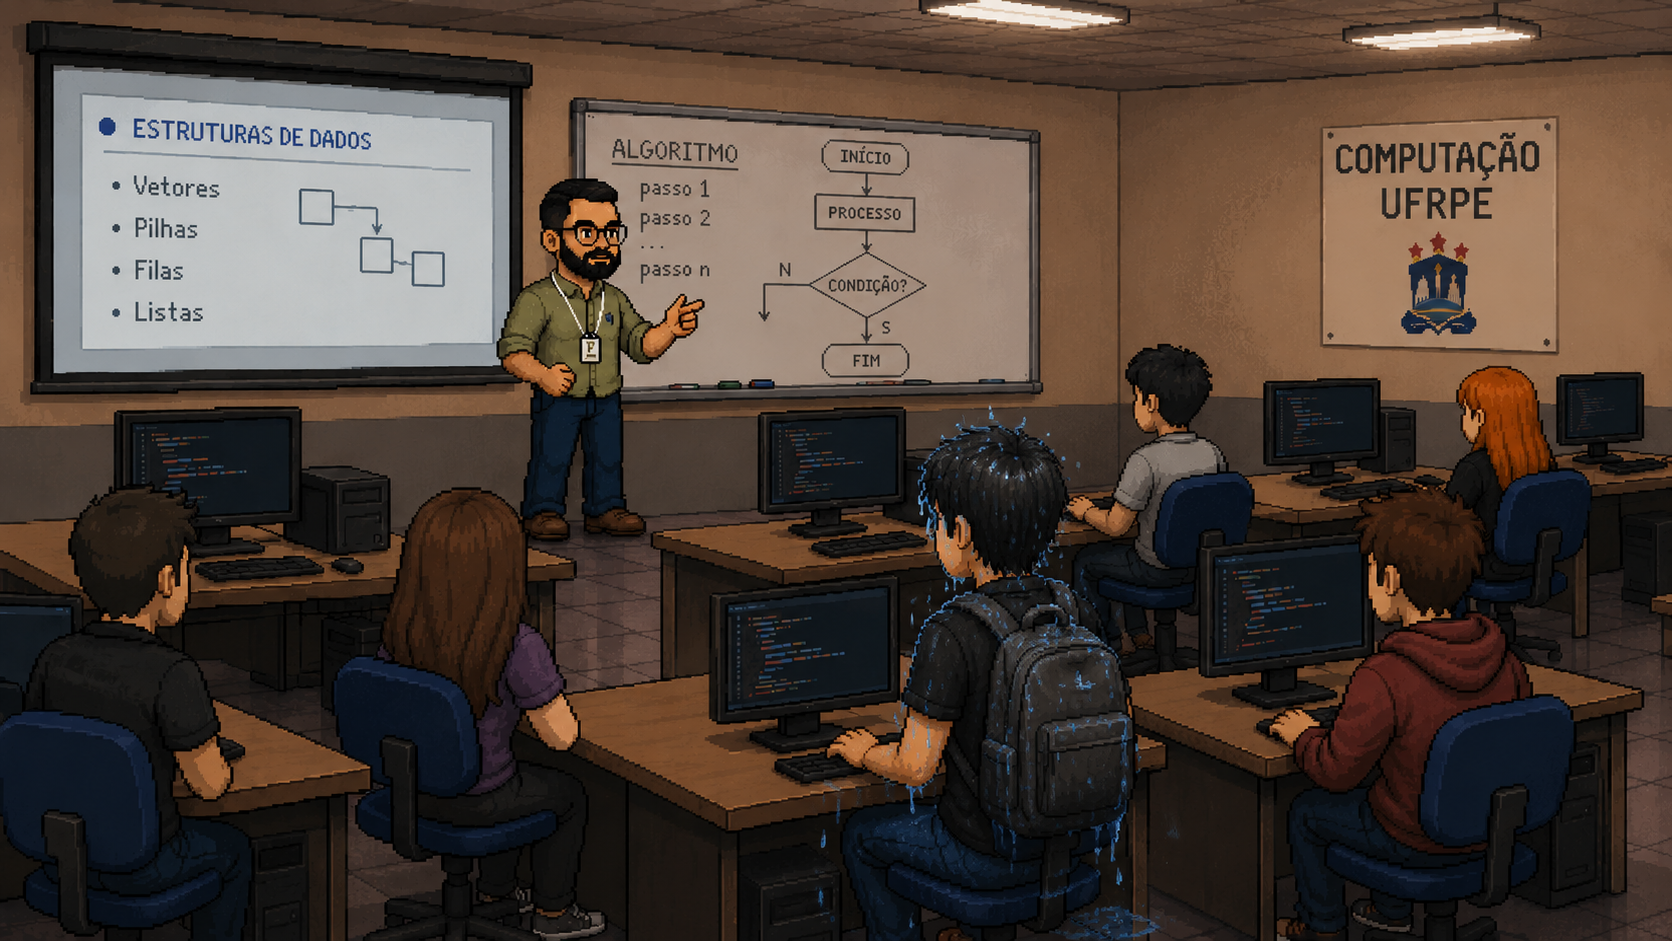
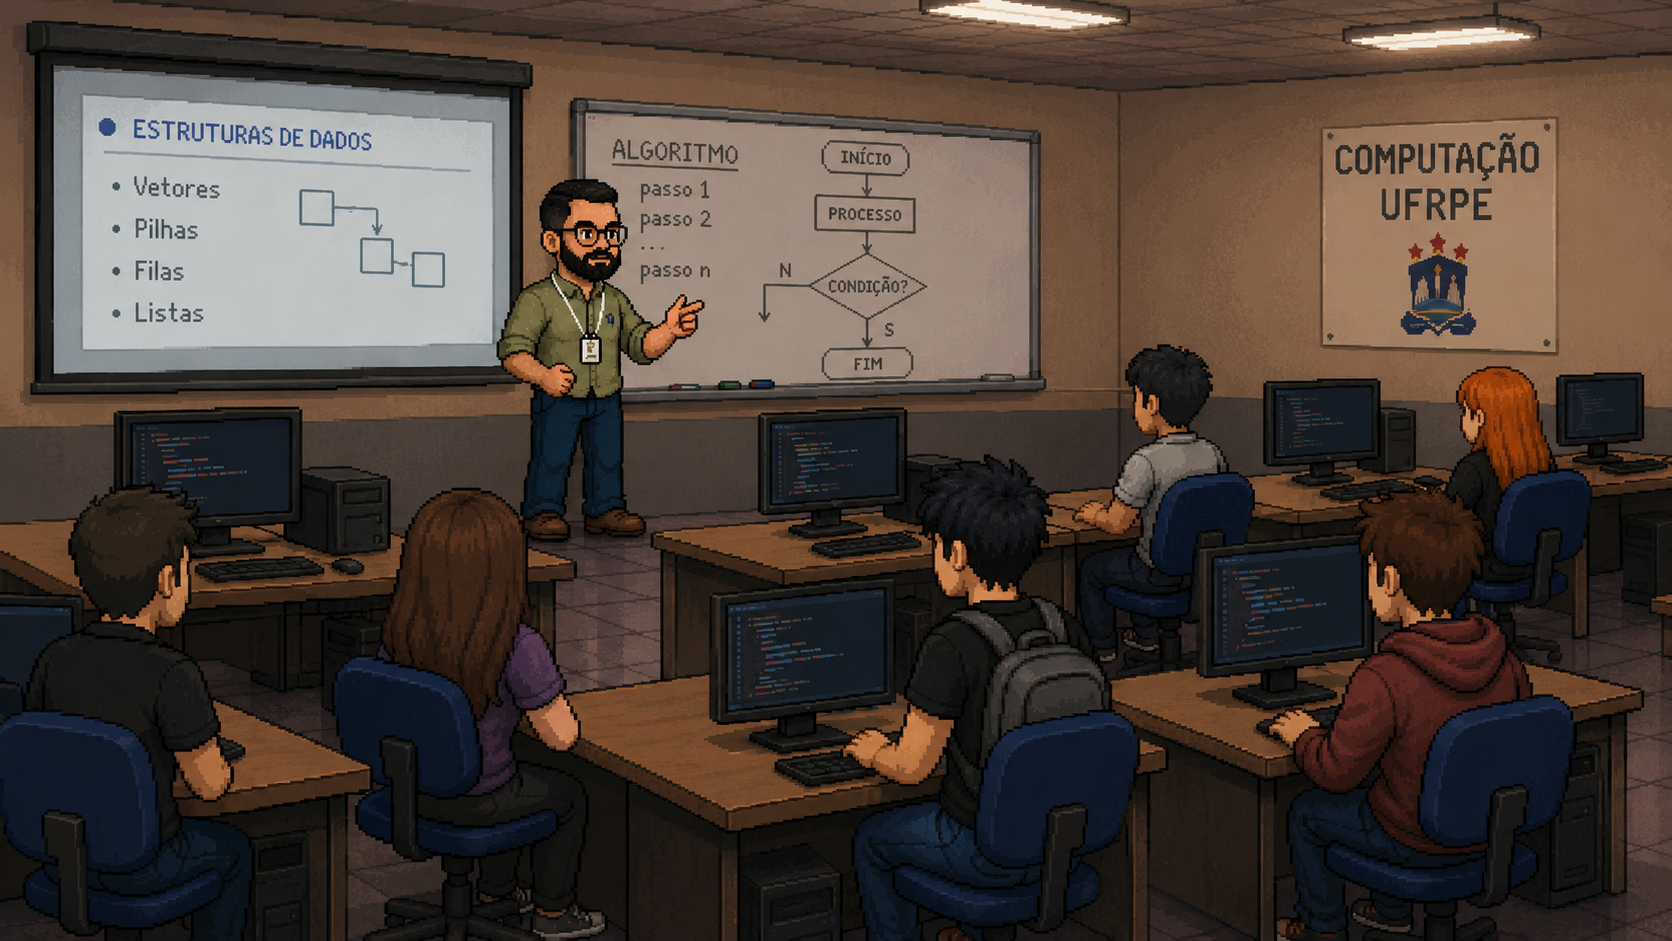
update

diff --git a/game/entities/towels_scene_manager.py b/game/entities/towels_scene_manager.py
@@ -1,0 +1,35 @@
+from game.entities.towels import Towels
+from game.core.config import TowelsConfig
+import arcade
+
+
+class TowelsSceneManager:
+    def __init__(self, window: arcade.Window) -> None:
+        self.towels: dict[str, Towels] = {}
+        self._spawned = False
+
+        for towels_name, config in TowelsConfig.TOWELS.items():
+            towels = Towels(
+                path=config["path"],
+                x=config["x"],
+                y=config["y"],
+                window=window
+            )
+            self.towels[towels_name] = towels
+
+    def __getattr__(self, name: str) -> Towels:
+        towels = self.__dict__.get("towels", {})
+        if name in towels:
+            return towels[name]
+        raise AttributeError(f"Toalha '{name}' não encontrada.")
+
+    def on_spawn(self, sprite_list: arcade.SpriteList, physics_engine) -> None:
+        if self._spawned:
+            return
+        for towels in self.towels.values():
+            towels.on_spawn(sprite_list, physics_engine)
+        self._spawned = True
+
+    def check_triggers(self, sprite_list: arcade.SpriteList) -> None:
+        for towel in self.towels.values():
+            towel.check_trigger(sprite_list)

diff --git a/game/entities/towels.py b/game/entities/towels.py
@@ -1,0 +1,27 @@
+from game.core.base import TriggerObject
+from game.entities import Player
+import arcade
+
+
+class Towels(TriggerObject):
+    def __init__(self, path: str, x: float, y: float, window: arcade.Window) -> None:
+        super().__init__()
+        self.game_window = window
+        self.texture = arcade.load_texture(path)
+        self.center_x = x
+        self.center_y = y
+        self.scale = 0.1
+        
+        self.triggered = False
+
+    def on_trigger(self, other) -> None:
+        if isinstance(other, Player) and not self.triggered:
+            self.triggered = True
+            game_scene = self.game_window.scene_manager.game_scene # type: ignore
+
+            game_scene.hud.add_towels()
+
+            self.remove_from_sprite_lists()
+
+    def on_spawn(self, sprite_list: arcade.SpriteList, physics_engine) -> None:
+        sprite_list.append(self)

diff --git a/game/entities/vehicles_scene_manager.py b/game/entities/vehicles_scene_manager.py
@@ -4,9 +4,10 @@ from game.core.config import VehiclesConfig
 import arcade
 
 class VehiclesSceneManager:
-
     def __init__(self) -> None:
-        self.vehicles = {}
+        self.vehicles: dict[str, SceneObject] = {}
+        self._spawned = False
+
         for vehicle_name, config in VehiclesConfig.VEHICLES.items():
             vehicle = SceneObject(
                 path=config["path"],
@@ -16,14 +17,18 @@ class VehiclesSceneManager:
             vehicle.scale = config["scale"]
             self.vehicles[vehicle_name] = vehicle
         
-        # Manter compatibilidade com acessos diretos
-        self.uno = self.vehicles["uno"]
-        self.gol = self.vehicles["gol"]
-        self.hb20 = self.vehicles["hb20"]
-        self.byd = self.vehicles["byd"]
-        self.scania = self.vehicles["scania"]
-        self.bus = self.vehicles["bus"]
+    def __getattr__(self, name: str) -> SceneObject:
+        vehicles = self.__dict__.get("vehicles", {})
+        if name in vehicles:
+            return vehicles[name]
+        
+        raise AttributeError(f"Veículo '{name}' não encontrado.")
 
     def on_spawn(self, sprite_list: arcade.SpriteList) -> None:
+        if self._spawned:
+            return
+
         for vehicle in self.vehicles.values():
             sprite_list.append(vehicle)
+
+        self._spawned = True

diff --git a/game/systems/score_system.py b/game/systems/score_system.py
@@ -1,0 +1,22 @@
+class ScoreSystem:
+    MAX_TIME = 120       
+    MAX_WETNESS = 100 
+    MAX_TOWELS = 15
+
+    WEIGHT_TIME = 0.5
+    WEIGHT_WETNESS = 0.3
+    WEIGHT_TOWELS = 0.2
+
+    @staticmethod
+    def calculate(elapsed_time: float, wetness: float, towels_collected: int) -> int:
+        t_score = max(0.0, 1 - elapsed_time / ScoreSystem.MAX_TIME) * 100
+        w_score = max(0.0, 1 - wetness / ScoreSystem.MAX_WETNESS) * 100
+        towel_score = (towels_collected / ScoreSystem.MAX_TOWELS) * 100
+
+        score = (
+            ScoreSystem.WEIGHT_TIME    * t_score +
+            ScoreSystem.WEIGHT_WETNESS * w_score +
+            ScoreSystem.WEIGHT_TOWELS  * towel_score
+        )
+
+        return round(score)

diff --git a/game/core/config.py b/game/core/config.py
@@ -47,6 +47,7 @@ class VisualConfig:
     # menu
     MENU_IMAGE = "assets/images/main_menu.png"
     WIN_IMAGE = "assets/images/win_menu.png"
+    LOSE_IMAGE = "assets/images/lose_menu.png"
     MENU_TITLE_SIZE = 82
     MENU_SUBTITLE_SIZE = 20
 
@@ -88,6 +89,25 @@ class VehiclesConfig:
             "y": 200,
             "scale": 0.76
         }
+    }
+
+class TowelsConfig:
+    TOWELS = {
+        "towels_1":  {"path": "assets/images/towels.png", "x": -8200,  "y": 300},
+        "towels_2":  {"path": "assets/images/towels.png", "x": -7500,  "y": 200},
+        "towels_3":  {"path": "assets/images/towels.png", "x": -6800,  "y": 250},
+        "towels_4":  {"path": "assets/images/towels.png", "x": -6000,  "y": 350},
+        "towels_5":  {"path": "assets/images/towels.png", "x": -5200,  "y": 200},
+        "towels_6":  {"path": "assets/images/towels.png", "x": -4500,  "y": 200},
+        "towels_7": {"path": "assets/images/towels.png", "x": -3800,  "y": 400},
+        "towels_8": {"path": "assets/images/towels.png", "x": -3000,  "y": 250},
+        "towels_9": {"path": "assets/images/towels.png", "x": -2200,  "y": 150},
+        "towels_10": {"path": "assets/images/towels.png", "x": -1500,  "y": 450},
+        "towels_11": {"path": "assets/images/towels.png", "x": -800,   "y": 400},
+        "towels_12": {"path": "assets/images/towels.png", "x": 0,      "y": 150},
+        "towels_13": {"path": "assets/images/towels.png", "x": 700,    "y": 400},
+        "towels_14": {"path": "assets/images/towels.png", "x": 1400,   "y": 300},
+        "towels_15": {"path": "assets/images/towels.png", "x": 2100,   "y": 450},
     }
 
 class GameConfig:

diff --git a/game/scenes/game_scene.py b/game/scenes/game_scene.py
@@ -1,4 +1,4 @@
-from game.entities import Player, SceneObject, VehiclesSceneManager, WinTrigger
+from game.entities import Player, SceneObject, VehiclesSceneManager, TowelsSceneManager, WinTrigger
 from game.systems import InputSystem, PhysicsSystem, AnimationSystem, CameraSystem, RainSystem, HudSystem
 from game.core import PhysicsConfig, VisualConfig, GameConfig
 
@@ -14,7 +14,8 @@ class GameScene(arcade.View):
         self.player_list = arcade.SpriteList()
         self.obstacle = arcade.SpriteList()
         self.plataform_list = arcade.SpriteList()
-        self.trigger_list = arcade.SpriteList()  # ← lista de triggers
+        self.trigger_win_list = arcade.SpriteList()
+        self.towels = arcade.SpriteList()
         
         self._setup_platforms()
 
@@ -37,7 +38,7 @@ class GameScene(arcade.View):
         self.win_trigger = WinTrigger(window=self.window)
         
         self.win_trigger.on_spawn(
-            sprite_list=self.trigger_list,
+            sprite_list=self.trigger_win_list,
             physics_engine=self.physics_engine
         )
         
@@ -100,6 +101,9 @@ class GameScene(arcade.View):
         self.obstacle_manager = VehiclesSceneManager()
         self.obstacle_manager.on_spawn(self.obstacle)
 
+        self.towels_manager = TowelsSceneManager(window=self.window)
+        self.towels_manager.on_spawn(sprite_list=self.towels, physics_engine=self.physics_engine)
+
         self.rain = RainSystem()
     
     def _setup_platforms(self) -> None:
@@ -134,6 +138,7 @@ class GameScene(arcade.View):
         self.physics_engine.update()
 
         self.obstacle.update()
+        self.towels.update()
         
         self.physics_system.update(delta_time) 
         self.animation_system.update(delta_time)   
@@ -143,7 +148,11 @@ class GameScene(arcade.View):
         
         self.hud.update(delta_time=delta_time)
 
-        self.win_trigger.check_trigger(self.player_list) 
+        if self.hud.wetness_level >= 100:
+            self.window.scene_manager.switch_to_lose() # type: ignore
+
+        self.win_trigger.check_trigger(sprite_list=self.player_list) 
+        self.towels_manager.check_triggers(sprite_list=self.player_list)
     
     def on_draw(self) -> None:
         self.clear()
@@ -152,11 +161,12 @@ class GameScene(arcade.View):
         
         self.departament_list.draw()
         self.obstacle.draw()
+        self.towels.draw()
         self.rain.rain_shapes.draw() 
         self.plataform_list.draw()
         self.player_list.draw()
 
-        self.trigger_list.draw()
+        self.trigger_win_list.draw()
 
         self.gui_camera.use()
         self.hud.draw()

diff --git a/game/entities/win_trigger.py b/game/entities/win_trigger.py
@@ -1,5 +1,6 @@
 from game.core import TriggerObject
 from game.entities import Player
+from game.systems import ScoreSystem
 import arcade
 
 class WinTrigger(TriggerObject):
@@ -29,9 +30,18 @@ class WinTrigger(TriggerObject):
             self.triggered = True
 
             game_scene = self.game_window.scene_manager.game_scene # type: ignore
+
+            towels = game_scene.hud.towels
+            wet_level = game_scene.hud.wetness_level
+            time = game_scene.hud.time_elapsed
+
+            score = ScoreSystem.calculate(elapsed_time=time, wetness=wet_level, towels_collected=towels)
+
             status = {
-                "towels": game_scene.hud.towels,
-                "wet_level": game_scene.hud.wetness_level,
-                "time": game_scene.hud.time_elapsed,
+                "towels": towels,
+                "wet_level": wet_level,
+                "time": time,
+                "score": score
             }
+            
             self.game_window.scene_manager.switch_to_win(status)  # type: ignore

diff --git a/game/core/__init__.py b/game/core/__init__.py
@@ -1,9 +1,20 @@
 from game.core.base import (System, GameObject, TriggerObject, InputHandler)
-from game.core.config import (PlayerConfig, CameraConfig, GameConfig, PhysicsConfig, RainConfig, VisualConfig)
+from game.core.config import (
+    PlayerConfig, 
+    CameraConfig, 
+    GameConfig, 
+    PhysicsConfig, 
+    RainConfig, 
+    VisualConfig,
+    VehiclesConfig,
+    TowelsConfig)
 from game.core.enums import (GameState, PlayerState, Direction)
 
 __all__ = [
     "System", "GameObject", "TriggerObject", "InputHandler",
-    "PlayerConfig", "CameraConfig", "PhysicsConfig", "GameConfig", "RainConfig", "VisualConfig",
+    "PlayerConfig", "CameraConfig", 
+    "PhysicsConfig", "GameConfig", 
+    "RainConfig", "VisualConfig",
+    "VehiclesConfig", "TowelsConfig",
     "GameState", "PlayerState", "Direction"
 ]

diff --git a/game/systems/rain_system.py b/game/systems/rain_system.py
@@ -1,39 +1,32 @@
 import arcade
 
 from game.entities.rain_drop import RainDrop
-from utils.game_utils import WINDOW_WIDTH, WINDOW_HEIGHT
+from game.core.config import GameConfig
 
 
 class RainSystem:
-    """Sistema que gerencia todas as gotas de chuva"""
     
     def __init__(self) -> None:
-        """Inicializa o sistema de chuva com 1500 gotas"""
         self.rain_list: list[RainDrop] = []
 
-        # Criar gotas
         for _ in range(1500):
             self.rain_list.append(RainDrop())
         
         self.rain_shapes = arcade.shape_list.ShapeElementList()
 
     def behaviour_update(self, delta_time: float, camera: arcade.Camera2D) -> None:
-        """Atualiza posição de todas as gotas e renderiza"""
-        # Pegar posição da câmera
         camera_x = camera.position[0]
         camera_y = camera.position[1]
 
-        # Atualizar comportamento de cada gota
         for rain in self.rain_list:
             rain._behaviour(
                 delta_time=delta_time,
                 camera_x=camera_x,
                 camera_y=camera_y,
-                screen_width=WINDOW_WIDTH,
-                screen_height=WINDOW_HEIGHT
+                screen_width=GameConfig.WINDOW_WIDTH,
+                screen_height=GameConfig.WINDOW_HEIGHT
             )
         
-        # Reconstruir lista de formas para renderização
         self.rain_shapes = arcade.shape_list.ShapeElementList()
         for rain in self.rain_list:
             self.rain_shapes.append(rain.get_shape())

diff --git a/game/scenes/scene_manager.py b/game/scenes/scene_manager.py
@@ -1,6 +1,7 @@
 from game.scenes.game_scene import GameScene
 from game.scenes.menu_scene import MenuScene
 from game.scenes.win_scene import WinScene
+from game.scenes.lose_scene import LoseScene
 
 import arcade
 
@@ -24,6 +25,13 @@ class SceneManager:
         self.win_scene.window = self.window
         self.window.show_view(self.win_scene)
         self.current_scene = "win"
+
+    def switch_to_lose(self) -> None:
+        self.lose_scene = LoseScene()
+        self.lose_scene.window = self.window
+
+        self.window.show_view(self.lose_scene)
+        self.current_scene = "lose"
 
     def switch_to_menu(self) -> None:
         self.window.show_view(self.menu_scene)

diff --git a/game/entities/__init__.py b/game/entities/__init__.py
@@ -2,6 +2,11 @@ from game.entities.player import Player
 from game.entities.scene_object import SceneObject
 from game.entities.rain_drop import RainDrop
 from game.entities.vehicles_scene_manager import VehiclesSceneManager
+from game.entities.towels_scene_manager import TowelsSceneManager
+from game.entities.towels import Towels
 from game.entities.win_trigger import WinTrigger
 
-__all__ = ["Player", "SceneObject", "RainDrop", "VehiclesSceneManager", "WinTrigger"]
+__all__ = [
+    "Player", "SceneObject", "RainDrop",
+    "VehiclesSceneManager", "TowelsSceneManager", 
+    "Towels", "WinTrigger"]

diff --git a/game/scenes/menu_scene.py b/game/scenes/menu_scene.py
@@ -28,7 +28,7 @@ class MenuScene(arcade.View):
         
         # Create instructions text
         self.instructions = arcade.Text(
-            text="Press SPACE to Start",
+            text="Aperte ENTER para começar",
             x=GameConfig.WINDOW_WIDTH // 2,
             y=GameConfig.WINDOW_HEIGHT // 2 - 120,
             color=arcade.color.WHITE,
@@ -51,5 +51,7 @@ class MenuScene(arcade.View):
         self.instructions.draw()
     
     def on_key_press(self, symbol: int, modifiers: int) -> None:
-        if symbol == arcade.key.SPACE:
+        if symbol == arcade.key.ENTER:
             self.window.scene_manager.switch_to_game()  # type: ignore
+        elif symbol == arcade.key.ESCAPE:
+            self.window.close()